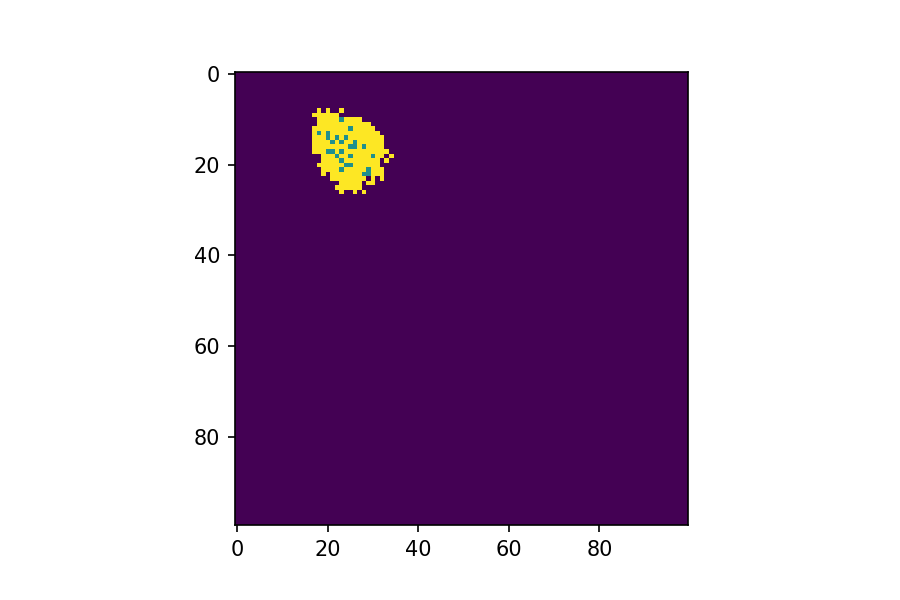
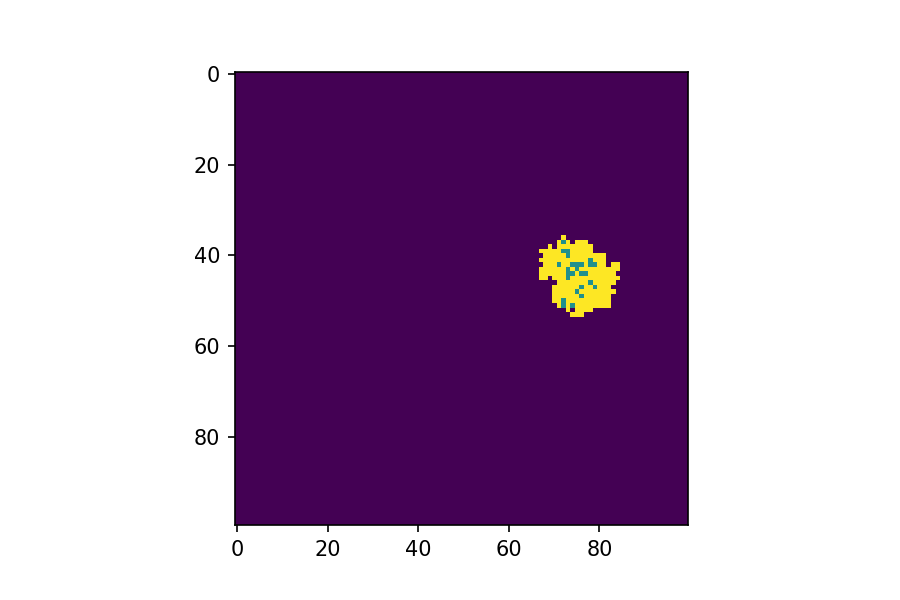
Added relatively neat pseudo codes for week 12 spatial_SIR
try running it

Changed region(s): [[0.5911, 0.39, 0.6844, 0.54], [0.3422, 0.18, 0.4356, 0.33]]

diff --git a/Practical 12/spatial_SIR.py b/Practical 12/spatial_SIR.py
@@ -10,17 +10,17 @@ import numpy as np
 import matplotlib . pyplot as plt
 
 population = np.zeros((100, 100))
-outbreak = np.random.choice(range(100),2) 
-population[outbreak[0],outbreak[1]] = 1 # Random choice 0 an 1? (first 2?= 2 random number)
+outbreak = np.random.choice(range(100),2)                                       # pick 2 random number in the range(100) to become x, y
+population[outbreak[0],outbreak[1]] = 1                                         # Coordination: x,y = Random choice 0 an 1
 
-def drawmap(i, population):
-    if i in [1, 10, 50, 100]:
-        plt.figure(figsize=(6,4), dpi=150)
+def drawmap(i, population):                                                     # define function to draw hotmap
+    if i in [1, 10, 50, 100]:                                                   # show (later save) the plot at time 1,10,50,100 (as given as sample plots)
+        plt.figure(figsize=(6,4), dpi=150)                         
         plt.imshow(population, cmap='viridis', interpolation='nearest')
-        plt.savefig ('Plot_spatial'+str(i),type='png')
+        plt.savefig ('Plot_spatial'+str(i),type='png')                          # save the plot every time
     return
 
-b=0.3
+b=0.3                                                                           # initialize parameters: beta and gamma
 g=0.05
 
 '''
@@ -49,27 +49,19 @@ Btw, where is this(below) infection_snippet come from?
 '''
 
 for i in range(0,101):
-    drawmap(i,population)
-    # find infected points
+    drawmap(i,population)                                                       # find infected points
     infectedIndex = np.where(population==1)
-# loop through all infected points
     for i in range(0,len(infectedIndex[0])):
-        
-    # get x, y coordinates for each point
-        x = infectedIndex[0][i]
+        x = infectedIndex[0][i]                                                 # get x, y coordinates for each point
         y = infectedIndex[1][i]
-    # infect each neighbour with probability beta
-    # infect all 8 neighbours (this is a bit finicky, is there a better way?): 
-        for xNeighbour in range(x-1,x+2):
-            for yNeighbour in range(y-1,y+2):
-            # don't infect yourself! (Is this strictly necessary?)Not necessary, because below it writes if ...=0
-                if (xNeighbour,yNeighbour) != (x,y):
-                # make sure I don't fall off an edge
+        for xNeighbour in range(x-1,x+2):                                      
+            for yNeighbour in range(y-1,y+2):                                   # try to infect each neighbour with probability beta (infect all 8 neighbours)
+            # don't infect yourself! (Is this strictly necessary?)              # Not necessary, because below it writes if ...=0
+                if (xNeighbour,yNeighbour) != (x,y):                            # don't fall off an edge ⬇
                      if xNeighbour != -1 and yNeighbour != -1 and xNeighbour!=100 and yNeighbour!=100:
-                    # only infect neighbours that are not already infected!
-                        if population[xNeighbour,yNeighbour]==0:
+                        if population[xNeighbour,yNeighbour]==0:                # only infect neighbours that are not already infected
                             population[xNeighbour,yNeighbour]=np.random.choice(range(2),1,p=[1-b,b])[0]
-        r = np.random.choice(range(2),1,p = [1-g,g])
+        r = np.random.choice(range(2),1,p = [1-g,g])                            # try to recover each neighbour with probability gamma, 1 for recover, 0 for not
         if r == 1:
            population[x,y]=0.5
     
